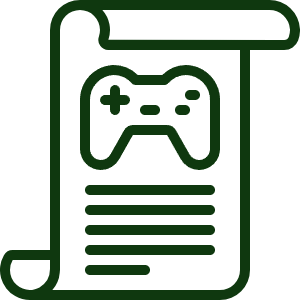
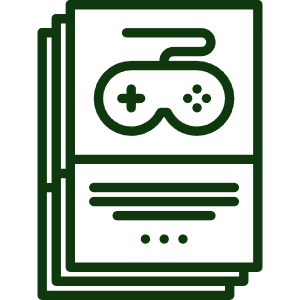
make the finished the About page and made it responsive

diff --git a/src/pages/About.css b/src/pages/About.css
@@ -54,7 +54,7 @@
     display: flex;
     flex-direction: column;
     align-items: center;
-
+    max-width: 500px;
     text-align: start;
 
     gap: 20px;
@@ -73,7 +73,7 @@
     align-items: center;
 
     gap:50px;
-    padding: 0 20px;
+    
 
     width: 100%;
 }
@@ -94,12 +94,15 @@
     align-items: center;
 
     gap: 50px;
+
+    display: grid;
+    grid-template-columns: repeat(3 , 1fr);
 }
 
 .border-01{
     border: 12px dashed var(--border-02);
     background-color: var(--bg-green);
-    width: 100%;
+    
 }
 .ourMissionItem{
     border: 10px dashed var(--shadow-02);
@@ -155,11 +158,12 @@
 }
 
 .whatWeOfferItems{
-    display: flex;
     justify-content: center;
-    align-items: center;
-
+    
     gap: 50px;
+
+    display: grid;
+    grid-template-columns: repeat(3 , 1fr);
 }
 
 .whatWeOfferItem{
@@ -283,4 +287,127 @@
 
 .DeveloperInfo p{
     color: var(--p-02);
+}
+
+.readyToExplore-container{
+    display: flex;
+    flex-direction: column;
+    align-items: center;
+
+
+    max-width: 1200px;
+    width: 100%;
+
+    border: 12px solid var(--heading-dark-green);
+    background-color: var(--bg-green);
+    color: var(--bg-green);
+    
+}
+
+.outer-border{
+    border: 12px dashed var(--bg-green);
+    background-color: var(--heading-dark-green);
+    max-width: 1200px;
+    width: 100%;
+
+}
+
+.mid-border{
+    border: 12px dashed var(--bg-green);
+    background-color: var(--card-bg);
+    max-width: 1200px;
+    width: 100%;
+
+    padding: 50px;
+
+    display: flex;
+    flex-direction: column;
+    align-items: center;
+    gap: 30px;
+}
+
+.readyToExplore-container h4{
+    color: var(--heading-dark-green);
+}
+
+.exploreBtn-02{
+    border: 10px solid var(--bg-green);
+    background-color: var(--heading-dark-green);
+    color: var(--lime-green-text);
+
+    font-family: 'Press Start 2P';
+    padding: 13px 20px;
+
+    max-width: 300px;
+    width: 100%;
+
+    cursor: pointer;
+}
+
+.exploreBtn-02:hover{
+    border: 10px solid var(--bg-green);
+    background-color: var(--lime-green-text);
+    color: var(--heading-dark-green);
+
+}
+
+
+@media (max-width: 1200px){
+    /*Our Mission*/
+    .ourMissionItems{
+        grid-template-columns: repeat(2 , 1fr);
+    }
+
+    /*What We offer*/
+    .whatWeOfferItems{
+        grid-template-columns: repeat(2 , 1fr);
+    }
+}
+
+@media( max-width: 950px){
+    /* Project Object*/
+    .projectObjLists{
+        font-size: smaller;
+    }
+}
+
+@media (max-width: 900px){
+    /* Who We Are*/
+    .whoWeAre-container{
+        flex-direction: column;
+        gap: 40px;
+        text-align: center;
+    }   
+}
+
+@media (max-width: 860px){
+    .ourMissionItems{
+    grid-template-columns: 1fr;
+    }
+}
+
+@media (max-width: 800px){
+    /* Project Object*/
+    .projectObjLists{
+        font-size: 10px;
+        padding-left: 1.25rem;
+    }
+
+    /*What We offer*/
+    .whatWeOfferItems{
+        grid-template-columns: 1fr;
+    }
+
+    .whatWeOfferItem h4{
+        font-size: smaller;
+    }
+    .whatWeOfferItem p{
+        font-size: smaller;
+    }
+}
+
+@media (max-width: 600px){
+    .projectObjLists {
+        padding-left: 1.25rem;
+    }
 }

diff --git a/src/pages/About.jsx b/src/pages/About.jsx
@@ -3,6 +3,9 @@ import gameBoyHandheld from '../assets/gameBoyHandheld.jpg'
 import gamingHistory from '../assets/gamingHistory.png'
 import discoverGames from '../assets/discoverGames.png'
 import gamingCommunity from '../assets/gamingCommunity.png'
+import gameDatabase from '../assets/gameDatabase.png'
+import gameReviews from '../assets/gameReviews.png'
+import gamingCommunityReview from '../assets/gamingCommunityReview.png'
 
 import ninjaWarrior from '../assets/ninja-warrior.png'
 
@@ -88,21 +91,21 @@ function About() {
         <div className="whatWeOfferItems">
           <div className="border-01">
             <div className="whatWeOfferItem">
-              <img src={gamingHistory} alt="gaming history" className='whatWeOfferIcon'/>
+              <img src={gameDatabase} alt="gaming history" className='whatWeOfferIcon'/>
               <h4>Game Database</h4>
               <p>Browse retro games</p>
             </div>
           </div>
           <div className="border-01">
             <div className="whatWeOfferItem">
-              <img src={gamingHistory} alt="Discover Games" className='whatWeOfferIcon'/>
+              <img src={gameReviews} alt="Discover Games" className='whatWeOfferIcon'/>
               <h4>Recommendations</h4>
               <p>Discover hidden gems</p>
             </div>
           </div>
           <div className="border-01">
             <div className="whatWeOfferItem">
-              <img src={gamingHistory} alt="gaming history" className='whatWeOfferIcon'/>
+              <img src={gamingCommunityReview} alt="gaming history" className='whatWeOfferIcon'/>
               <h4>Community Reviews</h4>
               <p>Read player opinions</p>
             </div>
@@ -156,6 +159,20 @@ function About() {
             </div>
         </div>
         
+      </div>
+
+      <div className="readyToExplore-container">
+        <div className="outer-border">
+          <div className="mid-border">
+
+            <h4>READY TO EXPLORE RETRO GAMES?</h4>
+            <p>Start your journey through gaming history today.</p>
+            <button className='exploreBtn-02'>
+              Explore Games 
+            </button>
+
+          </div>
+        </div>
       </div>
 
     </main>

diff --git a/src/styles/themes.css b/src/styles/themes.css
@@ -28,5 +28,4 @@
 }
 
 
-
 /**/
